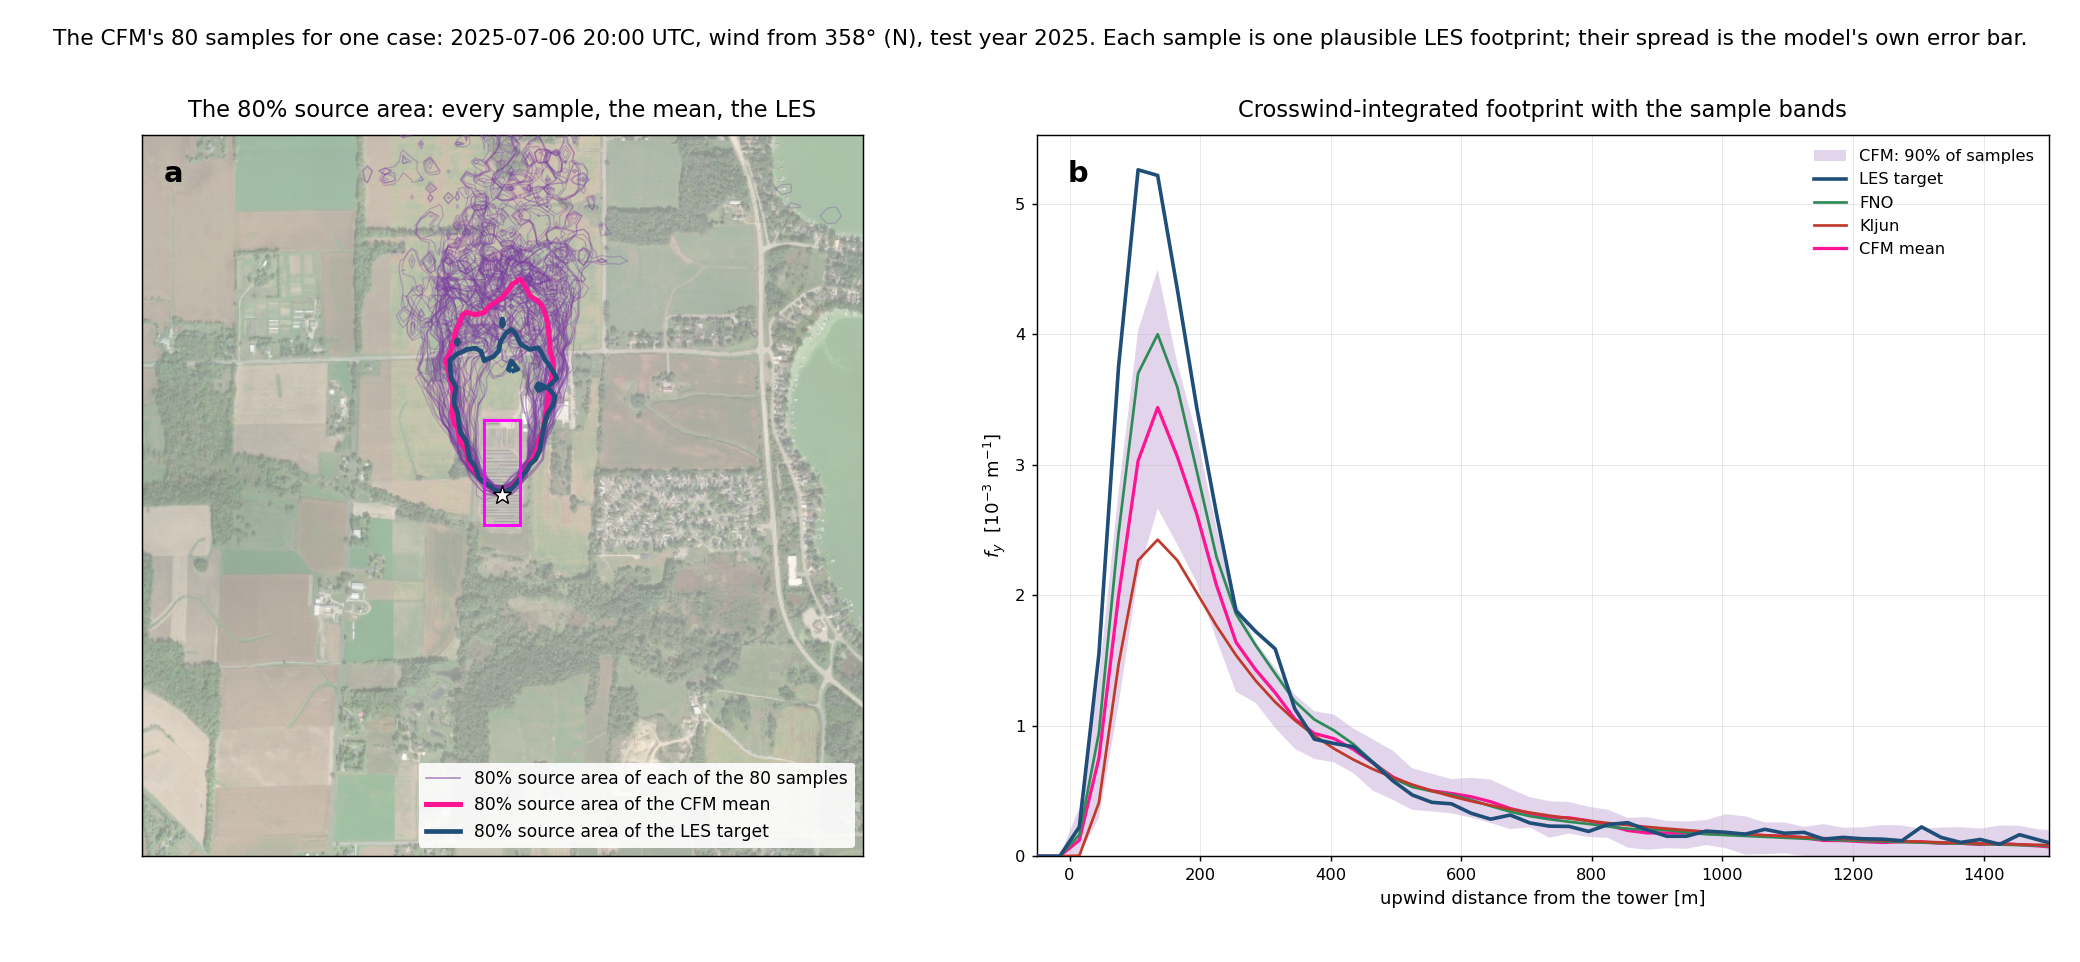
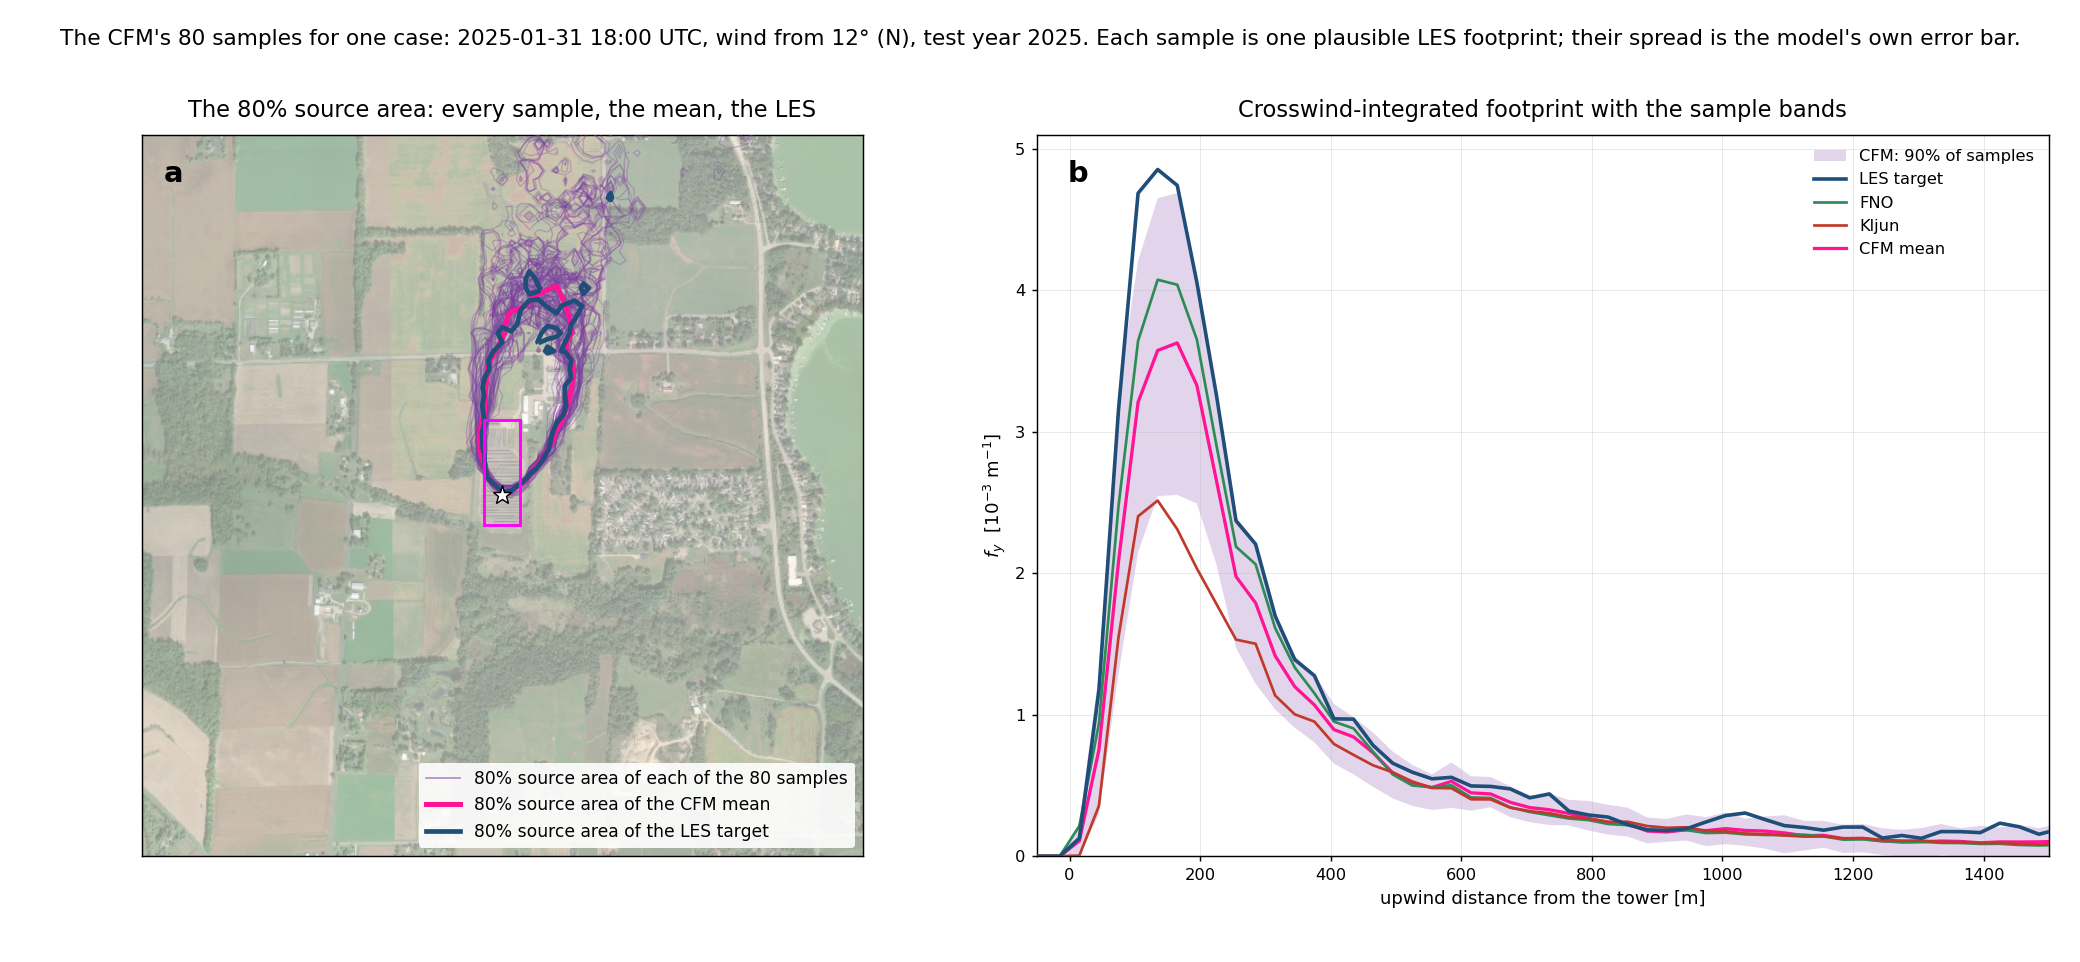
Test showcase and generative figures on different cases (--exclude on both scripts)

Changed region(s): [[0.5, 0.1559, 1.0, 0.9044], [0.1875, 0.1247, 0.3125, 0.5301], [0.0312, 0.0312, 0.9688, 0.0624]]

diff --git a/ml_cfm/fig_showcase.py b/ml_cfm/fig_showcase.py
@@ -26,15 +26,16 @@ from ml_cfm import figstyle as FS             # noqa: E402
 SECTORS = ("N", "W", "S", "E")
 
 
-def pick_cases(split):
+def pick_cases(split, exclude=()):
     """One record per cardinal sector, months all different: the strongest-array record for N,
-    the median-integral record otherwise."""
+    the median-integral record otherwise. `exclude`: run_ids not to use."""
     wd = split.wdir_deg
     months = np.array([str(d)[:7] for d in split.meta["datetime"]])
+    ok = ~np.isin(split.meta["run_id"].astype(str), list(exclude))
     sect = {c: np.abs((wd - deg + 180) % 360 - 180) <= 45 for c, deg in RM.CARDINAL}
     used, rows = set(), []
     for c in SECTORS:
-        idx = np.where(sect[c] & ~np.isin(months, list(used)))[0]
+        idx = np.where(sect[c] & ok & ~np.isin(months, list(used)))[0]
         if c == "N":
             i = idx[np.argmax(split.meta["array_share"][idx])]
         else:
@@ -49,6 +50,7 @@ def main(argv=None):
     ap.add_argument("--split", default="val")
     ap.add_argument("--allow-test", action="store_true")
     ap.add_argument("--out", default=None)
+    ap.add_argument("--exclude", nargs="*", default=[], help="run_ids not to pick")
     a = ap.parse_args(argv)
     if a.split == "test" and not a.allow_test:
         raise SystemExit("refusing the test split without --allow-test")
@@ -66,7 +68,7 @@ def main(argv=None):
     X, Y = np.meshgrid(xc0, xc0)
     fields, les, _ = RM.recipe_fields(split, valid)
     kl, fno, cfm = fields["Kljun"], fields["FNO"], fields["CFM"]
-    rows = pick_cases(split)
+    rows = pick_cases(split, a.exclude)
     sc = M.score_fields({k: f[rows] for k, f in fields.items()}, les[rows], split.wdir_deg[rows], arr, split.asymptote[rows])
     fm = {k: [RM.field_metrics(f[i], les[i], v, X, Y) for i in rows] for k, f in fields.items()}
     vmax = float(max(les[rows].max(), kl[rows].max(), cfm[rows].max(), fno[rows].max()))

diff --git a/ml_cfm/fig_generative.py b/ml_cfm/fig_generative.py
@@ -33,6 +33,7 @@ def main(argv=None):
     ap.add_argument("--allow-test", action="store_true")
     ap.add_argument("--case", default=None, help="run_id; default = the strongest-array N record")
     ap.add_argument("--out", default=None)
+    ap.add_argument("--exclude", nargs="*", default=[], help="run_ids not to pick")
     a = ap.parse_args(argv)
     if a.split == "test" and not a.allow_test:
         raise SystemExit("refusing the test split without --allow-test")
@@ -51,7 +52,8 @@ def main(argv=None):
     if a.case:
         i = int(np.where(split.meta["run_id"].astype(str) == a.case)[0][0])
     else:
-        north = np.where(split.octant.astype(str) == "N")[0]
+        ok = ~np.isin(split.meta["run_id"].astype(str), list(a.exclude))
+        north = np.where((split.octant.astype(str) == "N") & ok)[0]
         i = int(north[np.argmax(split.meta["array_share"][north])])
     wd = float(split.wdir_deg[i])
     S = samples[:, i]

diff --git a/results/ml_cfm/TIMELINE.md b/results/ml_cfm/TIMELINE.md
@@ -36,3 +36,4 @@
 - 2026-09-04 figures v4 on val: Esri imagery under the showcase and generative panels, domain inset with a drop shadow and no connectors, sector dots refined (rose dropped), ECDFs cut to the central 90%; gate PASS
 - 2026-09-04 figures v5 on val: no wind arrow, full-saturation footprints; generative two panels with hot-pink mean contour; sectors without the perfect line; domain without caption, 3-side shadow; ECDF legends lower right; gate PASS
 - 2026-09-04 TEST RUN (user's go): test_predictions --allow-test (FNO preds + 20 CFM samples/seed, seeds 0-3, RNG 0), report_metrics + 4 figures on test; docs §8; 4 audited test reads, all allow_test
+- 2026-09-04 test figures re-picked with --exclude: showcase case_2025053115/020906/072313/042016, generative case_2025013118 (2 more audited test reads)

diff --git a/docs/results/CFM_CALIB_RESULT.md b/docs/results/CFM_CALIB_RESULT.md
@@ -340,4 +340,4 @@ FNO 47.1 / 86.7 / 0.190 / 0.607 / 0.362 / 50.8 / 0.290 / 0.937; CFM 48.8 / 68.8 
 in every column. The CFM leads the FNO on centroid (69 vs 93 m) and W1 (41 vs 54 m) and ties on the
 rest; both emulators halve or better Kljun's peak, centroid and W1 errors. Sectors (90°, N/E/S/W,
 n = 43 / 38 / 95 / 118) and octants are in `metrics_test.json`; the figures are
-`showcase_test.png`, `generative_test.png`, `sectors_test.png`, `distributions_test.png`.
+`showcase_test.png` (cases 2025-05-31 15 N, 2025-02-09 06 NW, 2025-07-23 13 SW, 2025-04-20 16 E; the first pick per sector was set aside with `--exclude` on request), `generative_test.png` (2025-01-31 18, N), `sectors_test.png`, `distributions_test.png`.
